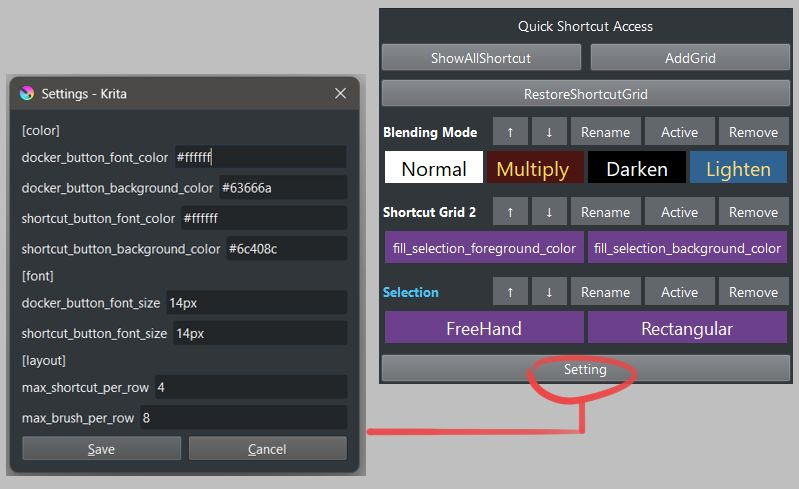
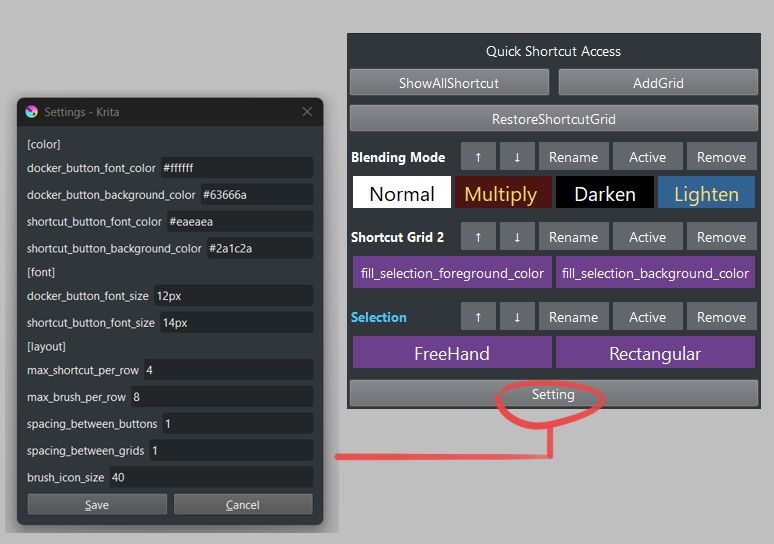
update config

diff --git a/quick_access_manager/shortcut_manager.py b/quick_access_manager/shortcut_manager.py
@@ -5,7 +5,7 @@ from PyQt5.QtCore import Qt, QSize, QMimeData, QPoint
 from PyQt5.QtGui import QDrag
 from PyQt5.QtGui import QFontMetrics
 from krita import Krita
-from .data_manager import load_shortcut_grids_data, save_shortcut_grids_data, log_save_grids_data, spacingValue
+from .data_manager import load_shortcut_grids_data, save_shortcut_grids_data, log_save_grids_data
 from .preprocess import check_common_config
 
 COMMON_CONFIG = check_common_config()
@@ -23,6 +23,14 @@ def docker_btn_style():
     font_color = COMMON_CONFIG["color"]["docker_button_font_color"]
     font_size = COMMON_CONFIG["font"]["docker_button_font_size"]
     return f"background-color: {color}; color: {font_color}; font-size: {font_size};"
+
+def get_spacing_between_buttons():
+    from .quick_access_manager import COMMON_CONFIG
+    return COMMON_CONFIG["layout"]["spacing_between_buttons"]
+
+def get_spacing_between_grids():
+    from .quick_access_manager import COMMON_CONFIG
+    return COMMON_CONFIG["layout"]["spacing_between_grids"]
 
 # すべてのQActionを再帰的に取得
 def get_all_actions():
@@ -134,7 +142,7 @@ class ShortcutAccessSection(QWidget):
         self.data_file = os.path.join(self.config_dir, "shortcut_grid_data.json")
 
         self.main_layout = QVBoxLayout()
-        self.main_layout.setSpacing(spacingValue)
+        self.main_layout.setSpacing(get_spacing_between_grids())
         self.main_layout.setContentsMargins(0, 0, 0, 0)
 
         # タイトルラベルを追加
@@ -285,8 +293,10 @@ class ShortcutAccessSection(QWidget):
             self.save_grids_data()
 
     def refresh_layout(self):
-        for grid_widget in self.grids:
-            grid_widget.update_grid()
+            # main_layoutのspacingを再適用
+            self.main_layout.setSpacing(get_spacing_between_grids())
+            for grid_widget in self.grids:
+                grid_widget.refresh_spacing_and_update()
 
 class SingleShortcutGridWidget(QWidget):
     def __init__(self, grid_info, parent_section):
@@ -299,7 +309,7 @@ class SingleShortcutGridWidget(QWidget):
         self.setAcceptDrops(True)
 
         main_layout = QVBoxLayout()
-        main_layout.setSpacing(spacingValue)
+        main_layout.setSpacing(get_spacing_between_buttons())
         main_layout.setContentsMargins(2, 2, 2, 2)
 
         header_layout = QHBoxLayout()
@@ -335,7 +345,7 @@ class SingleShortcutGridWidget(QWidget):
         main_layout.addLayout(header_layout)
 
         self.shortcut_grid_layout = QGridLayout()
-        self.shortcut_grid_layout.setSpacing(spacingValue)
+        self.shortcut_grid_layout.setSpacing(get_spacing_between_buttons())
         self.shortcut_grid_layout.setContentsMargins(2, 2, 2, 2)
         grid_area = QWidget()
         grid_area.setLayout(self.shortcut_grid_layout)
@@ -349,6 +359,20 @@ class SingleShortcutGridWidget(QWidget):
         self.up_btn.clicked.connect(lambda: self.parent_section.move_grid(self, -1))
         self.down_btn.clicked.connect(lambda: self.parent_section.move_grid(self, 1))
         self.remove_btn.clicked.connect(self.remove_grid)
+
+    def refresh_spacing_and_update(self):
+            # main_layout, header_layout, shortcut_grid_layoutのspacingを再適用
+            layout = self.layout()
+            if layout:
+                layout.setSpacing(get_spacing_between_buttons())
+            # header_layoutはmain_layoutのitemAt(0)
+            if layout and layout.count() > 0:
+                header_layout = layout.itemAt(0).layout()
+                if header_layout:
+                    header_layout.setSpacing(1)
+            if hasattr(self, "shortcut_grid_layout"):
+                self.shortcut_grid_layout.setSpacing(get_spacing_between_buttons())
+            self.update_grid()
 
     def add_shortcut_button(self, action):
         self.grid_info['actions'].append(action)
@@ -367,6 +391,7 @@ class SingleShortcutGridWidget(QWidget):
             self.parent_section.save_grids_data()
 
     def update_grid(self):
+        self.shortcut_grid_layout.setSpacing(get_spacing_between_buttons())
         while self.shortcut_grid_layout.count():
             item = self.shortcut_grid_layout.takeAt(0)
             widget = item.widget()
@@ -379,9 +404,6 @@ class SingleShortcutGridWidget(QWidget):
         for idx, action in enumerate(self.grid_info['actions']):
             config = None
 
-            # log_save_grids_data(f"self.grid_info['actions']: {self.grid_info['actions']}")
-            # log_save_grids_data(f"self.grid_info[shortcut_configs]: {self.grid_info['shortcut_configs']}")
-
             if "shortcut_configs" in self.grid_info and idx < len(self.grid_info["shortcut_configs"]):
                 config = self.grid_info["shortcut_configs"][idx]
             else:
@@ -393,7 +415,6 @@ class SingleShortcutGridWidget(QWidget):
                     "fontColor": COMMON_CONFIG["color"]["shortcut_button_font_color"],
                     "backgroundColor": COMMON_CONFIG["color"]["shortcut_button_background_color"]
                 }
-            # log_save_grids_data(f"config: {config}")
 
             shortcut_btn = ShortcutDraggableButton(action, self.grid_info, self.parent_section, config)
             shortcut_btn.setMinimumSize(QSize(40, 28))
@@ -408,13 +429,6 @@ class SingleShortcutGridWidget(QWidget):
                 bg_color != COMMON_CONFIG["color"]["shortcut_button_background_color"] or
                 f"{str(font_size)}px" != COMMON_CONFIG["font"]["shortcut_button_font_size"]
             )
-
-            # log_save_grids_data(f'font_color: {font_color}')
-            # log_save_grids_data(f'shortcut_button_font_color: {COMMON_CONFIG["color"]["shortcut_button_font_color"]}')
-            # log_save_grids_data(f'bg_color: {bg_color}')
-            # log_save_grids_data(f'shortcut_button_background_color: {COMMON_CONFIG["color"]["shortcut_button_background_color"]}')
-            # log_save_grids_data(f'font_size: {f"{str(font_size)}px"}')
-            # log_save_grids_data(f'shortcut_button_font_size: {COMMON_CONFIG["font"]["shortcut_button_font_size"]}')
 
             if is_custom:
                 # log_save_grids_data(f"is_custom: True")

diff --git a/quick_access_manager/quick_access_manager.py b/quick_access_manager/quick_access_manager.py
@@ -4,11 +4,14 @@ from krita import Extension, DockWidgetFactory, DockWidgetFactoryBase, Krita
 from PyQt5.QtWidgets import QWidget, QVBoxLayout, QGridLayout, QPushButton, QLabel, QDockWidget, QScrollArea, QHBoxLayout, QInputDialog, QApplication, QDialog, QLineEdit, QMessageBox
 from PyQt5.QtCore import Qt, QMimeData, QPoint
 from PyQt5.QtGui import QIcon, QPixmap, QDrag
-from .data_manager import load_grids_data, save_grids_data, spacingValue, iconSize
+from .data_manager import load_grids_data, save_grids_data
 from .shortcut_manager import ShortcutAccessSection, SingleShortcutGridWidget, shortcut_btn_style
 from .preprocess import check_common_config
 
 COMMON_CONFIG = check_common_config()
+spacingBetweenGridsValue = COMMON_CONFIG["layout"]["spacing_between_grids"]
+spacingBetweenButtonsValue = COMMON_CONFIG["layout"]["spacing_between_buttons"]
+iconSize = COMMON_CONFIG["layout"]["brush_icon_size"]
 
 def docker_btn_style():
     color = COMMON_CONFIG["color"]["docker_button_background_color"]
@@ -21,6 +24,15 @@ def get_font_px(font_size_str):
         return int(str(font_size_str).replace("px", ""))
     except Exception:
         return 12
+
+def get_spacing_between_buttons():
+    return COMMON_CONFIG["layout"]["spacing_between_buttons"]
+
+def get_spacing_between_grids():
+    return COMMON_CONFIG["layout"]["spacing_between_grids"]
+
+def get_brush_icon_size():
+    return COMMON_CONFIG["layout"]["brush_icon_size"]
 
 class CommonConfigDialog(QDialog):
     def __init__(self, config_path, parent=None):
@@ -292,8 +304,8 @@ class QuickAccessDockerWidget(QDockWidget):
         scroll_area = QScrollArea()
         self.scroll_widget = QWidget()
         self.main_grid_layout = QVBoxLayout()
-        self.main_grid_layout.setSpacing(spacingValue)  # Minimize spacing between grids
-        self.main_grid_layout.setContentsMargins(1, 1, 1, 1)  # Minimize margins
+        self.main_grid_layout.setSpacing(spacingBetweenGridsValue)  # Minimize spacing between grids
+        self.main_grid_layout.setContentsMargins(0, 0, 0, 0)  # Minimize margins
         self.scroll_widget.setLayout(self.main_grid_layout)
         scroll_area.setWidget(self.scroll_widget)
         scroll_area.setWidgetResizable(True)
@@ -330,9 +342,24 @@ class QuickAccessDockerWidget(QDockWidget):
             global COMMON_CONFIG
             with open(self.common_config_path, "r", encoding="utf-8") as f:
                 COMMON_CONFIG = json.load(f)
+            # ここで再取得
+            global iconSize
+            iconSize = get_brush_icon_size()
+            global spacingBetweenGridsValue
+            spacingBetweenGridsValue = get_spacing_between_grids()
+            global spacingBetweenButtonsValue
+            spacingBetweenButtonsValue = get_spacing_between_buttons()
+
             self.refresh_styles()
             # ボタンサイズやレイアウトも再構築
             for grid_info in self.grids:
+                # spacingBetweenGridsValueを再適用
+                if grid_info.get('container'):
+                    container_layout = grid_info['container'].layout()
+                    if container_layout:
+                        container_layout.setSpacing(1)
+                if grid_info.get('layout'):
+                    grid_info['layout'].setSpacing(spacingBetweenButtonsValue)
                 self.update_grid(grid_info)
             # ショートカットグリッドも再構築
             if hasattr(self, "shortcut_section"):
@@ -392,10 +419,10 @@ class QuickAccessDockerWidget(QDockWidget):
     def _add_grid_ui(self, grid_info):
         grid_container = DraggableGridContainer(grid_info, self)
         container_layout = QVBoxLayout()
-        container_layout.setSpacing(spacingValue)
-        container_layout.setContentsMargins(2, 2, 2, 2)
+        container_layout.setSpacing(1)
+        container_layout.setContentsMargins(0, 0, 0, 0)
         header_layout = QHBoxLayout()
-        header_layout.setSpacing(spacingValue)
+        header_layout.setSpacing(1)
         header_layout.setContentsMargins(0, 0, 0, 0)
         name_label = QLabel(grid_info['name'])
         name_label.setStyleSheet("font-weight: bold; font-size: 12px;")
@@ -446,7 +473,7 @@ class QuickAccessDockerWidget(QDockWidget):
         grid_widget.setMinimumHeight(iconSize + 4)
         grid_layout = QGridLayout()
         grid_layout.setAlignment(Qt.AlignLeft | Qt.AlignTop)
-        grid_layout.setSpacing(spacingValue)
+        grid_layout.setSpacing(spacingBetweenButtonsValue)
         grid_layout.setContentsMargins(0, 0, 0, 0)
         grid_widget.setLayout(grid_layout)
         container_layout.addWidget(grid_widget)

diff --git a/quick_access_manager/preprocess.py b/quick_access_manager/preprocess.py
@@ -16,7 +16,10 @@ def check_common_config():
         },
         "layout": {
             "max_shortcut_per_row": 2,
-            "max_brush_per_row": 8
+            "max_brush_per_row": 8,
+            "spacing_between_buttons": 1,
+            "spacing_between_grids": 1,
+            "brush_icon_size": 40
         }
     }
     if not os.path.exists(config_path):

diff --git a/quick_access_manager/data_manager.py b/quick_access_manager/data_manager.py
@@ -2,9 +2,6 @@ import os
 import json
 import datetime
 
-spacingValue = 1  # The spacing (in pixels) between buttons or grid elements
-iconSize = 40     # The default icon size (in pixels) for brush preset buttons
-
 def log_save_grids_data(msg):
     log_dir = os.path.join(os.path.dirname(__file__), "logs")
     if not os.path.exists(log_dir):

diff --git a/README.md b/README.md
@@ -38,9 +38,6 @@ However, the shortcut settings will not be loaded automatically because it is di
 
 Therefore, you need to click the [RestoreShortcutGrid] button manually to restore the shortcut settings.
 
-## Change icon size or spacing
-You can change the value of "spacingValue" and "iconSize" in `data_manager.py` to customize the spacing between buttons or grid elements and the size of brush icons.
-
 ## Resize Docker
 <del>When resizing the docker, please do it slowly.</del>
 
